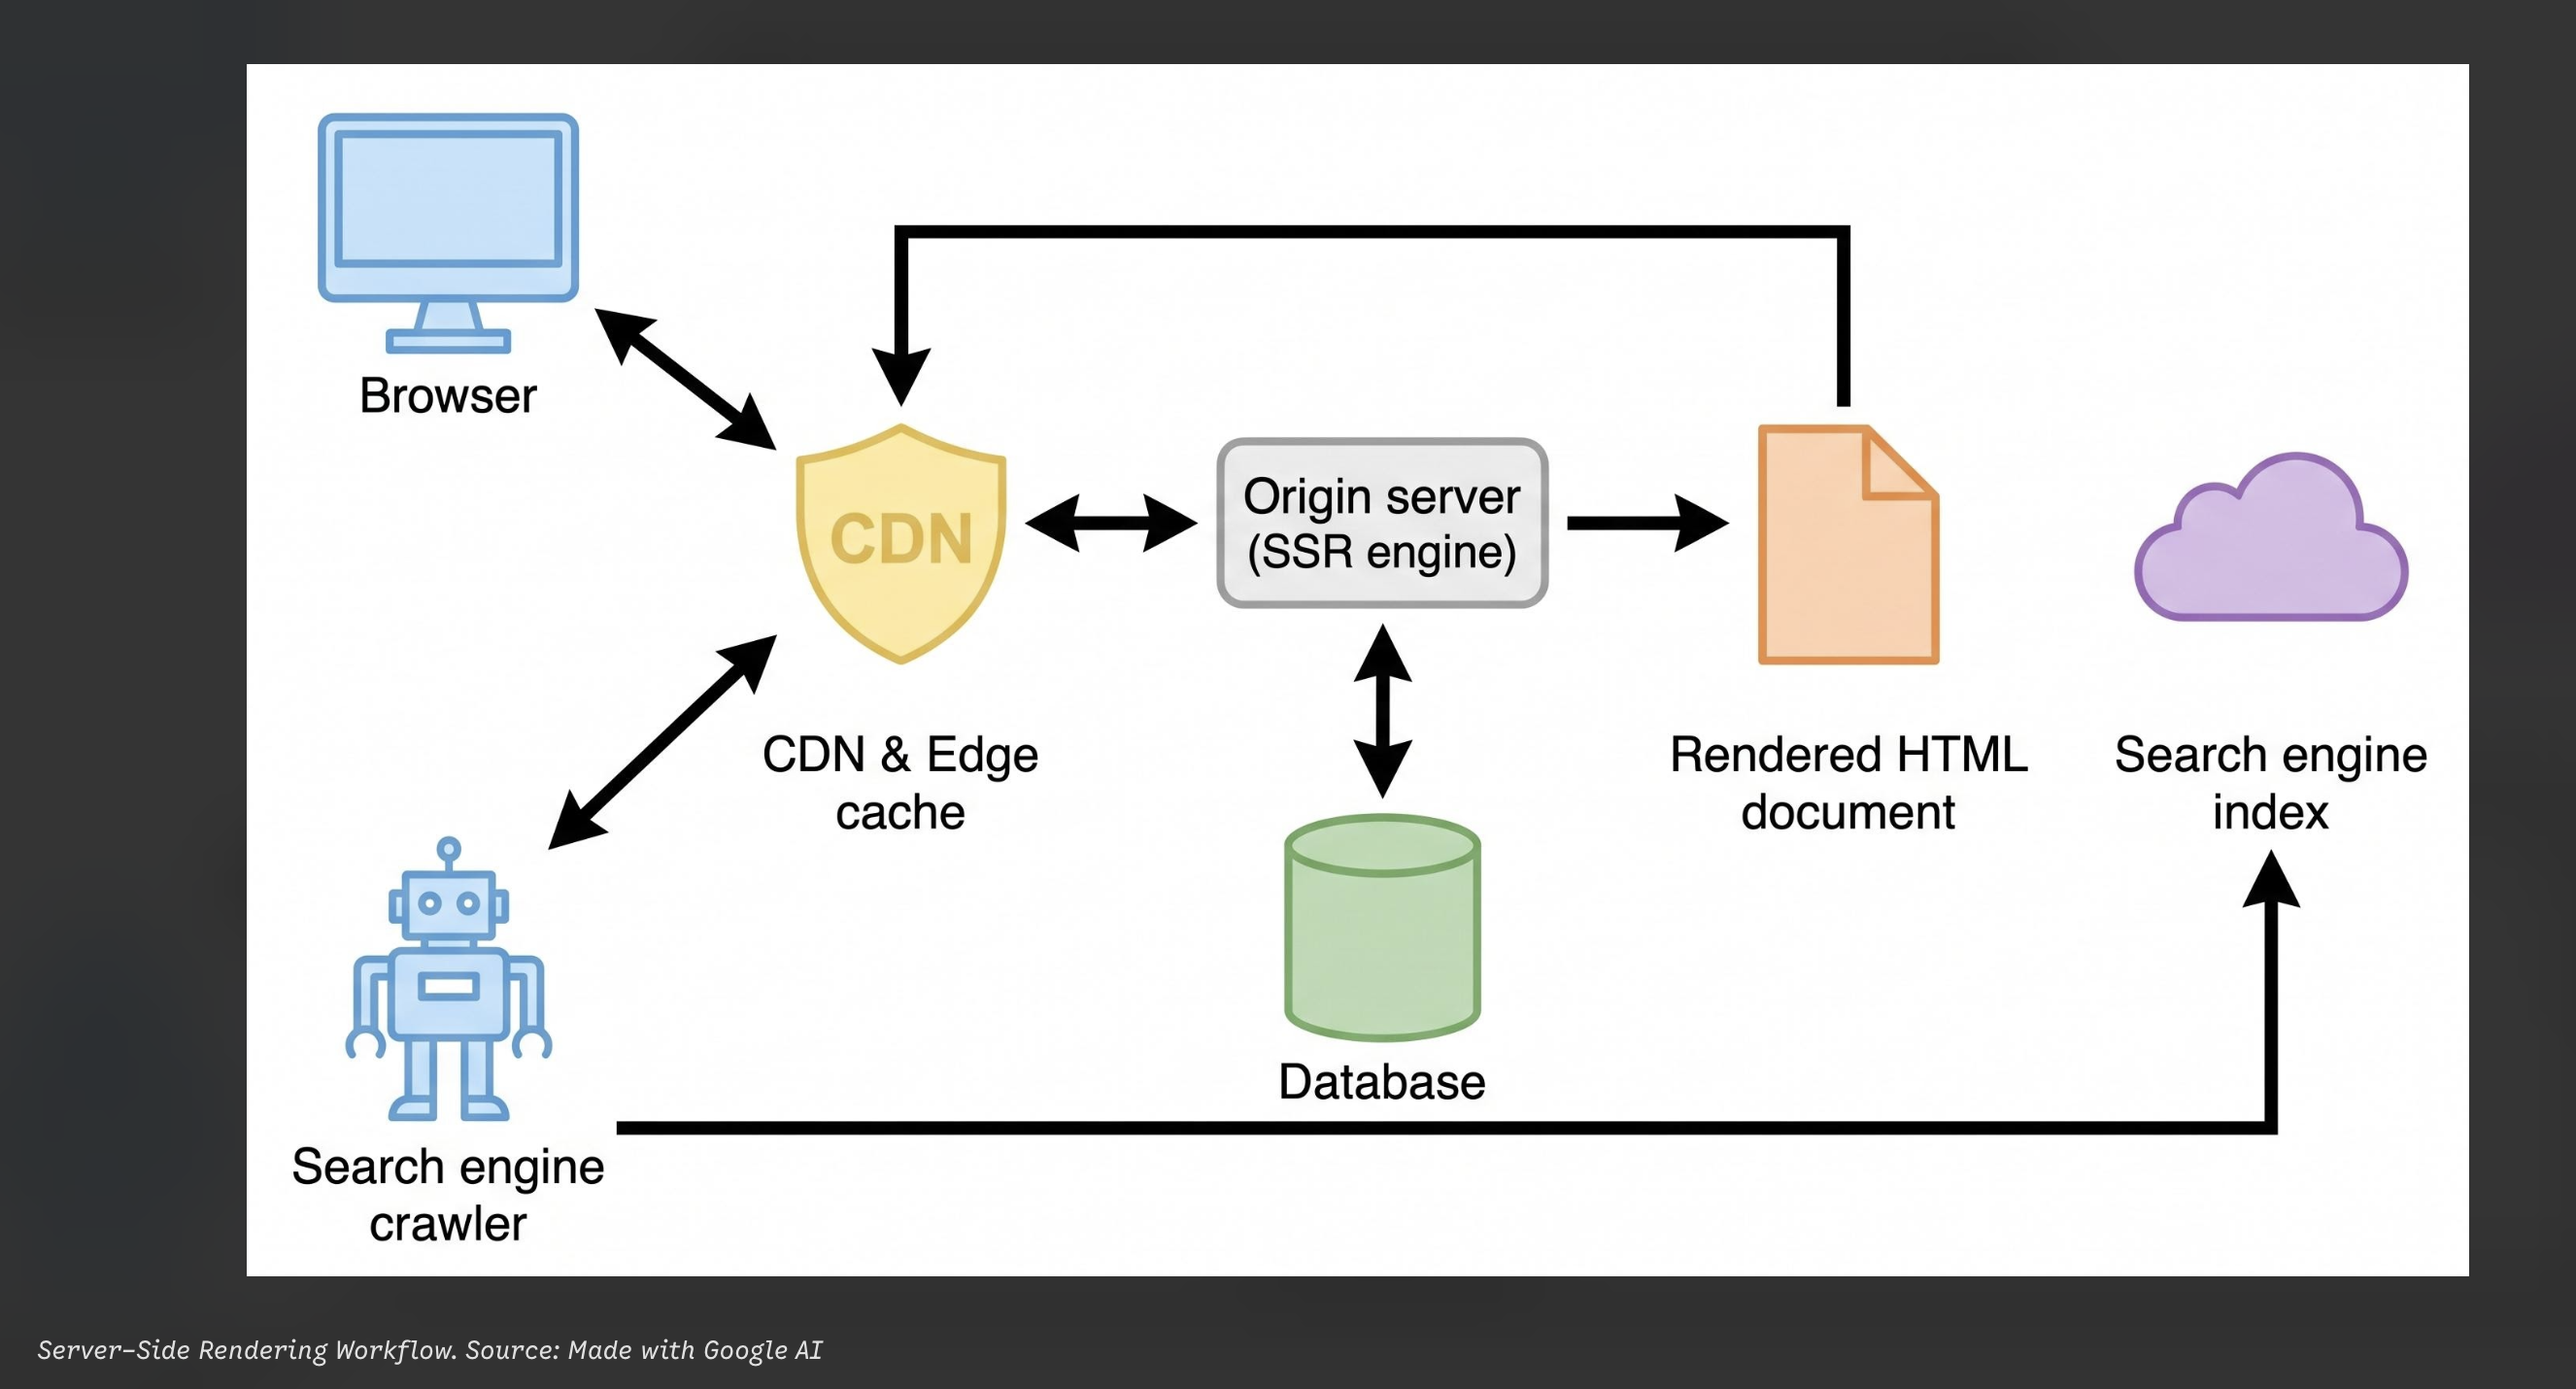
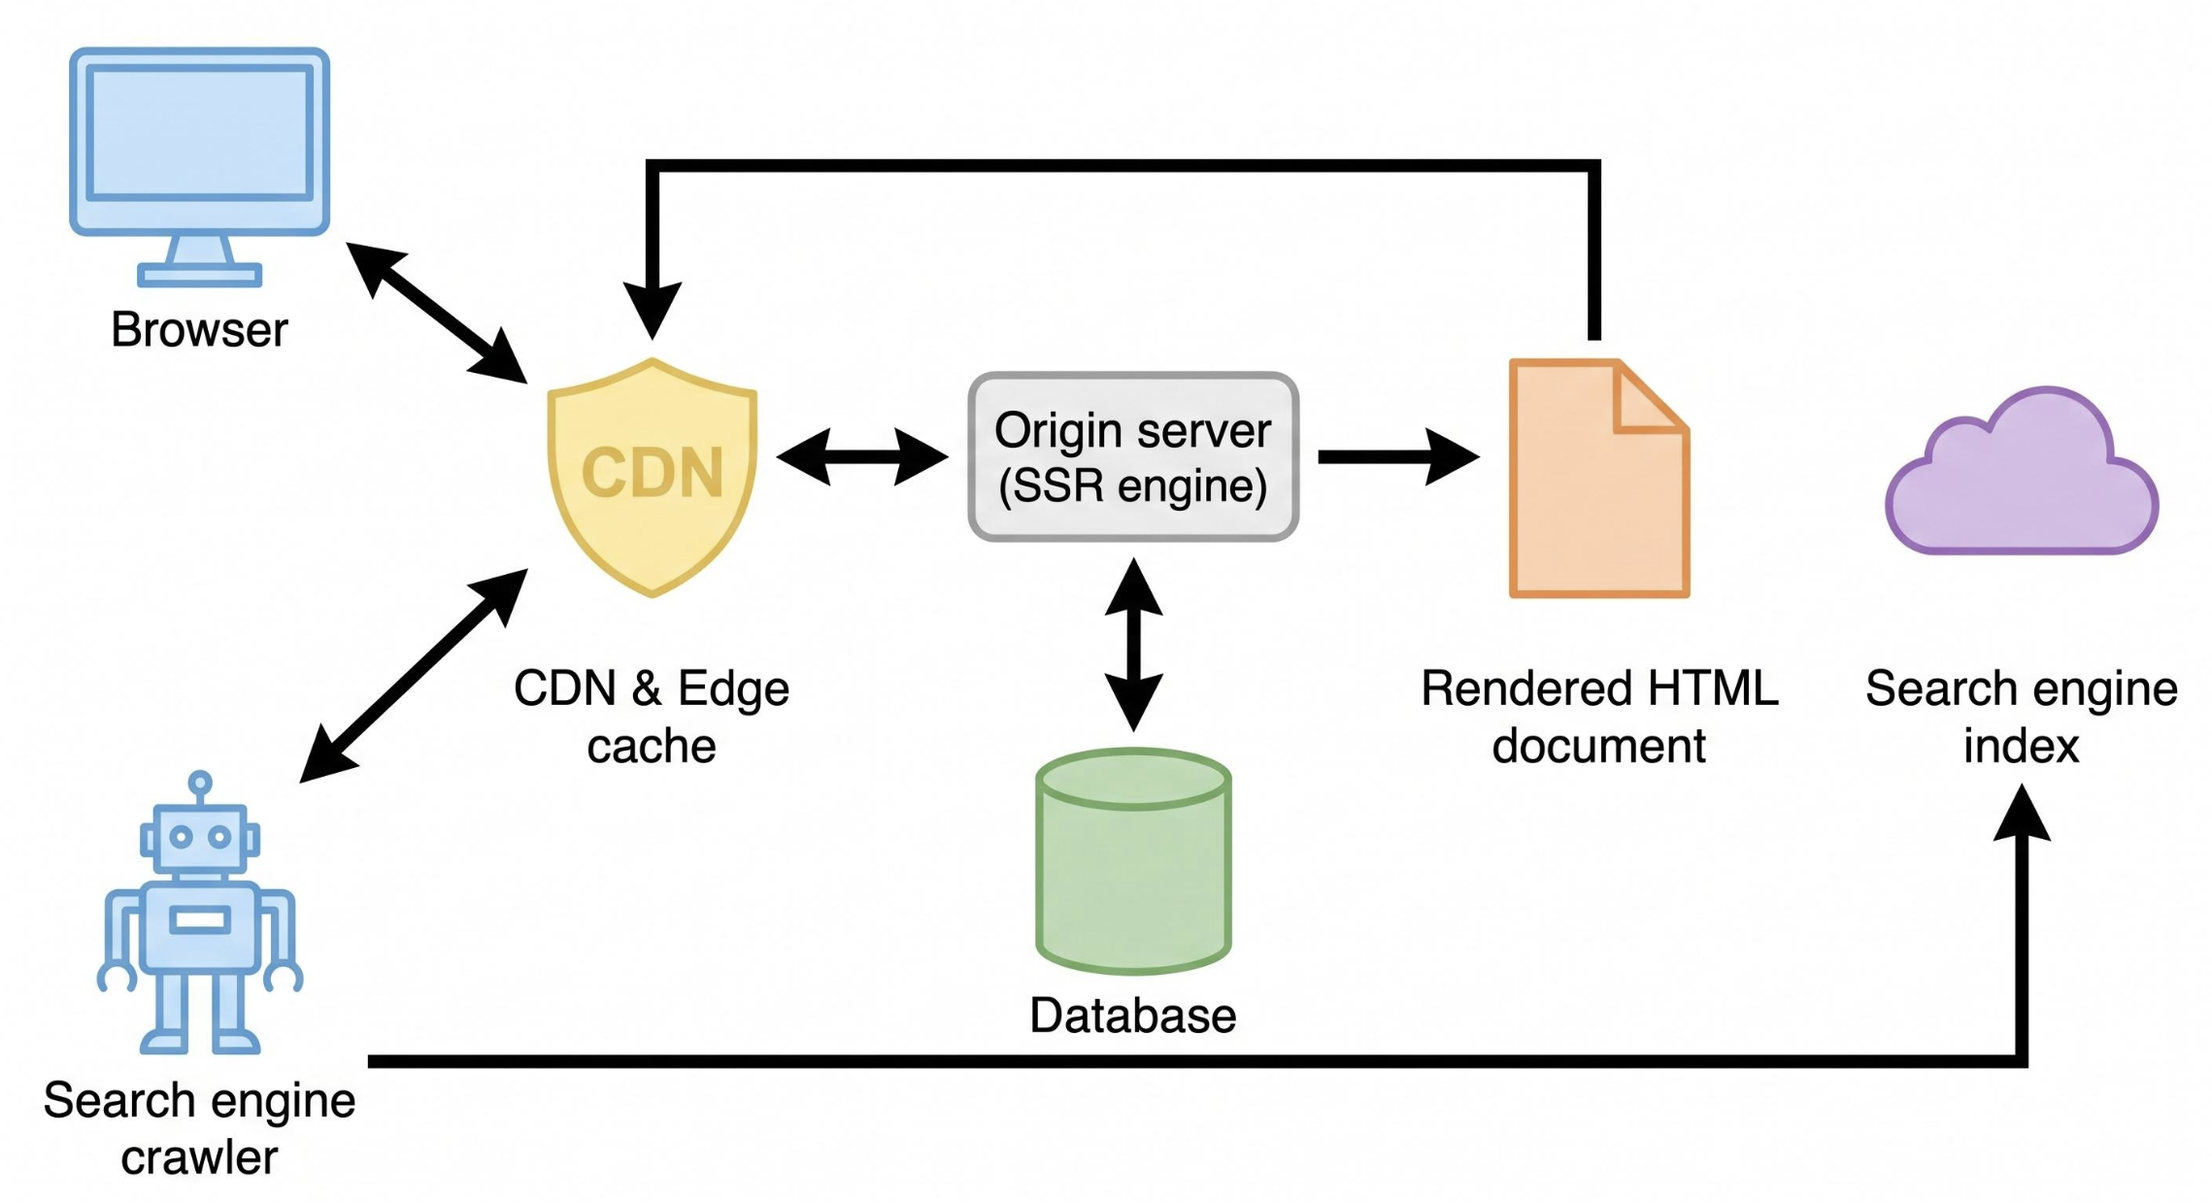
From SSR JSP to rich GUIs with JavaFX

diff --git a/jee_notes/JavaFX/00_SERVER_SIDE_RENDERING_ERA.md b/jee_notes/JavaFX/00_SERVER_SIDE_RENDERING_ERA.md
@@ -10,4 +10,55 @@ Under the hood, a **JSP file** is not interpreted line-by-line like a static tex
 
 Over time, architectures moved away from embedding raw Java scriptlets inside JSPs toward **MVC patterns** where **servlets** or **controllers** *prepare model data and forward to JSP views for presentation*.
 
-![image info](../images/SSR_Workflow.png)
+![image info](../images/SSR_Workflow.png) *Source=Google AI Images*
+
+# Shift Toward Rich Desktop GUIs in Java
+
+Pure server-rendered HTML pages work well for document-centric navigation and form submissions, but every significant UI state change traditionally required a round trip HTTP request and a full or partial page reload. As enterprise applications demanded responsive charts, drag-and-drop workflows, local hardware access, or continuous client-side state, thin HTML browsers felt limiting.
+
+In the Java ecosystem, rich desktop GUI toolkits (such as **AWT = Abstract Window Toolkit, Swing and later JavaFX**) offered retained scene graphs, hardware-accelerated rendering, CSS-like styling, and rich client state directly on the user's machine. Rather than replacing backend Java/Jakarta EE services, these desktop clients often paired with server-side business logic and data services, separating rich interactive presentation from centralized enterprise processing. 
+
+| Dimension  | SSR JSP   | Rich Desktop GUI (e.g. Java FX) |
+| :---       | :---      |          :---                   |
+| Primary UI Runtime | Web browser rendering server-generated HTML | Local JVM client running a **scene graph UI**  |
+| State & Interactivity | Heavily tied to HTTP requests, sessions and page reloads | Persistent local client state and immediate UI responsiveness |
+| Deployment & Updates | Centralized on the server; instant updates for all users | Installed or distributed to client machines; requires client updates |
+| Typical Fit | Web portals, content pages, standard form workflows | Data-heavy desktop tools, visual editors, local-first clients  |
+
+# Tracing request-response Lifecycles
+
+## Example 1: Tracing a JSP request in a Servlet Container
+
+A browser requests `/orders.jsp?id=42` for the first time from a Java EE web container. How does the server turn that template into an HTML response?
+
+### 1. Receive the HTTP Request
+
+The web container maps `/orders.jsp` to the **JSP engine** and creates request and response objects for the query GET parameter `id=42`.
+
+### 2. Translate and compile into a servlet
+
+Because this is the first request (or the JSP changed), the container generates servlet source code from `orders.jsp` and compiles it into Java Bytecode.
+
+### 3. Execute server-side logic and render HTML
+
+The compiled servlet runs, evaluates expressions or tag libraries using backend data for order `42`, and writes the finished HTML document to the response stream.
+
+### 4. Return HTML to the browser
+
+The browser receives ready-to-display HTML and renders the page; subsequent requests can reuse the already-compiled servlet class.
+
+## Example 2: Choosing Between JSP rendering and JavaFX Desktop Client
+
+An engineering team is modernizing an internal operations tool that displays live telemetry systems, interactive timelines and multi-panel inspectors alongside enterprise database records. How should they evaluate SSR vs a rich Java GUI?
+
+### 1. Audit interaction and state demands
+
+Identify whether the UI relies on simple form submissions or requires continuous local state, smooth animations, and rapid multi-panel updates without constant full-page reloads.
+
+### 2. Evaluate client deployment constraints
+
+Compare zero-install browser access via server-rendered web pages against managing desktop runtime installations and updates across user workstations.
+
+### 3. Align with backend Java EE services
+
+Keep business rules, security and database persistence on the server tier while choosing JSP/web views for browser reach or JavaFX when rich client interactivity is paramount.
